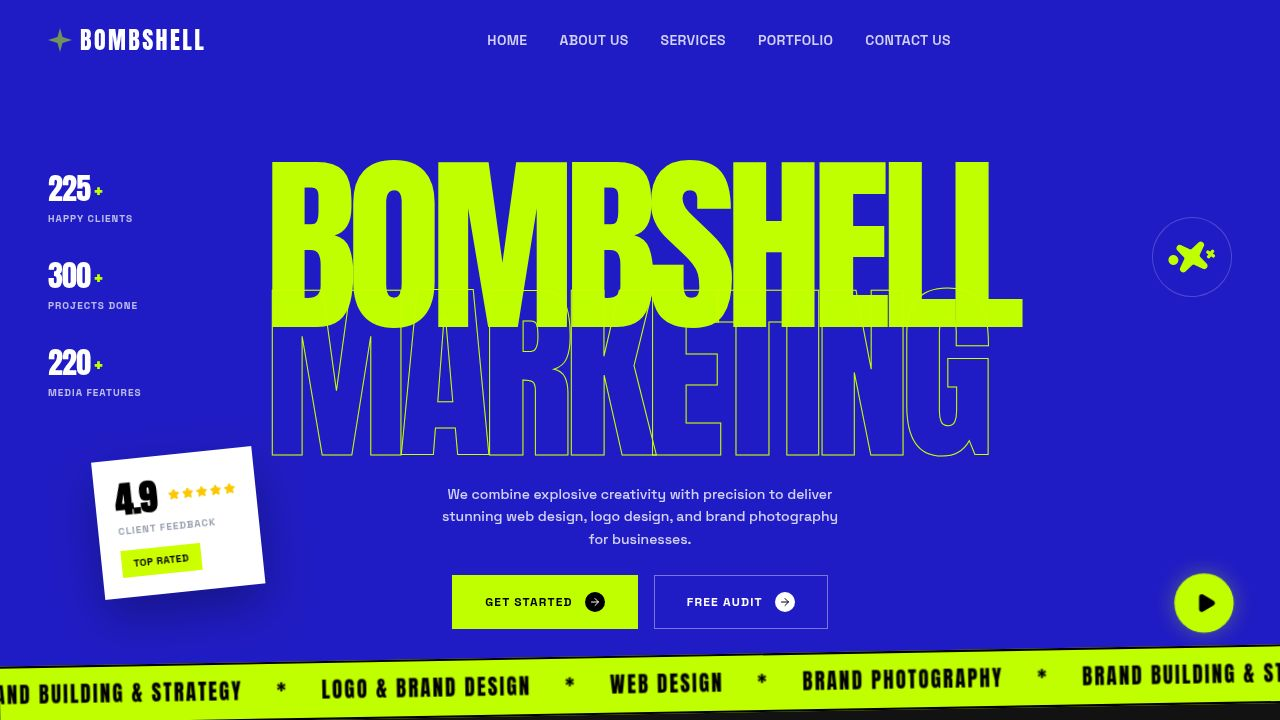
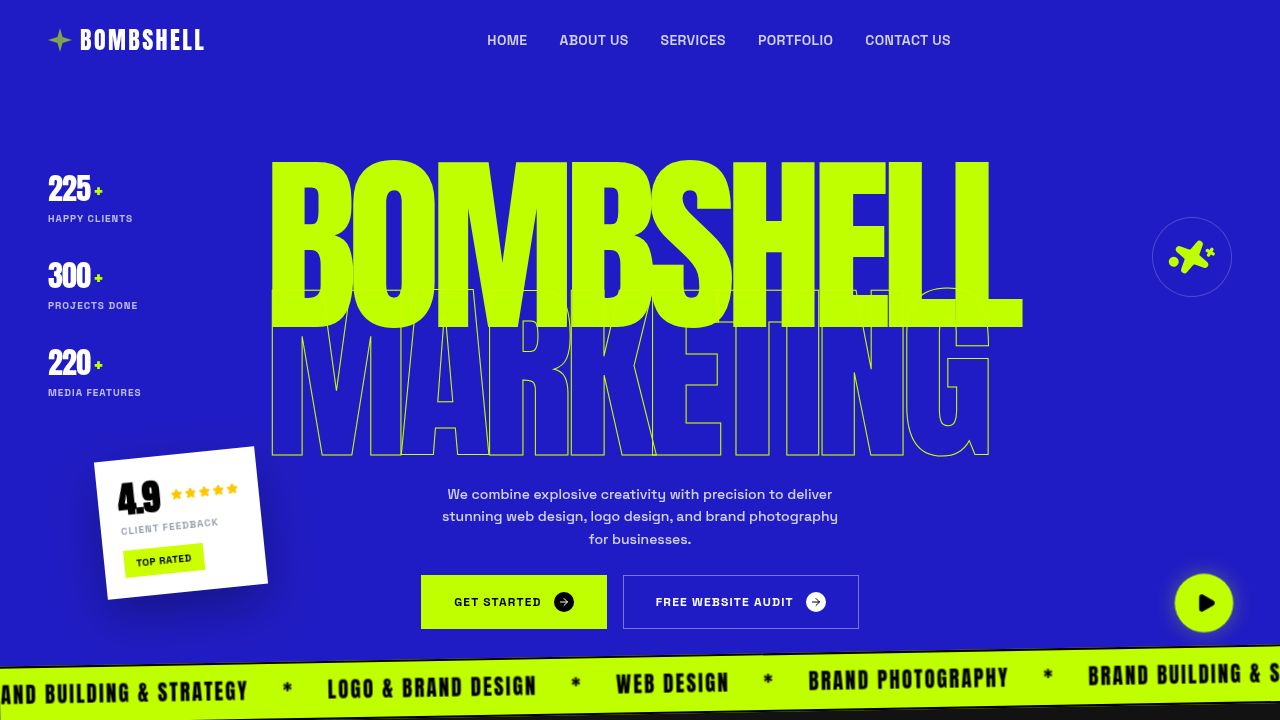
Update audit link text and destination across site
Modify multiple components and pages to change "Free Audit" to "Free Website Audit" and update href attributes to point to "https://audit.bombshellmarketingomaha.com/".

Replit-Commit-Author: Agent
Replit-Commit-Session-Id: b97b545a-2953-4744-8807-01dbd9bc97d5
Replit-Commit-Checkpoint-Type: full_checkpoint
Replit-Commit-Event-Id: aef925ae-0c94-406c-b1c6-359919545ed4
Replit-Commit-Screenshot-Url: https://storage.googleapis.com/screenshot-production-us-central1/cacd662f-1fbf-427a-8dde-dff8a0747f32/b97b545a-2953-4744-8807-01dbd9bc97d5/OgFN8ip
Replit-Helium-Checkpoint-Created: true

diff --git a/client/src/components/Hero.tsx b/client/src/components/Hero.tsx
@@ -82,8 +82,8 @@ export function Hero() {
                        <ArrowRight className="w-3 h-3" />
                     </div>
                   </a>
-                  <a href="https://style-matcher.replit.app" className="group px-8 py-4 border border-white/40 hover:bg-primary hover:text-black hover:border-primary transition-all text-white text-xs font-bold uppercase tracking-widest flex items-center gap-3">
-                    <span>Free Audit</span>
+                  <a href="https://audit.bombshellmarketingomaha.com/" className="group px-8 py-4 border border-white/40 hover:bg-primary hover:text-black hover:border-primary transition-all text-white text-xs font-bold uppercase tracking-widest flex items-center gap-3">
+                    <span>Free Website Audit</span>
                     <div className="w-5 h-5 rounded-full bg-white text-black flex items-center justify-center group-hover:bg-black group-hover:text-white transition-colors">
                        <ArrowRight className="w-3 h-3" />
                     </div>

diff --git a/client/src/components/CallToAction.tsx b/client/src/components/CallToAction.tsx
@@ -27,13 +27,13 @@ export function CallToAction() {
           </a>
           
           <a 
-            href="https://style-matcher.replit.app"
+            href="https://audit.bombshellmarketingomaha.com/"
             target="_blank"
             rel="noopener noreferrer"
             className="group px-8 py-4 bg-transparent text-white border border-white hover:bg-white hover:text-black transition-all text-xs font-bold uppercase tracking-widest flex items-center justify-center gap-2"
             data-testid="cta-audit-button"
           >
-            Free Audit
+            Free Website Audit
             <ArrowUpRight className="w-4 h-4" />
           </a>
         </div>

diff --git a/client/src/pages/Services.tsx b/client/src/pages/Services.tsx
@@ -175,10 +175,10 @@ export default function ServicesPage() {
               <ArrowUpRight className="w-4 h-4" />
             </a>
             <a 
-              href="https://style-matcher.replit.app" 
+              href="https://audit.bombshellmarketingomaha.com/" 
               className="group px-8 py-4 border border-white/40 hover:bg-primary hover:text-black hover:border-primary transition-all text-white text-xs font-bold uppercase tracking-widest flex items-center justify-center gap-3"
             >
-              <span>Free Audit</span>
+              <span>Free Website Audit</span>
               <ArrowUpRight className="w-4 h-4" />
             </a>
           </div>

diff --git a/client/src/pages/Portfolio.tsx b/client/src/pages/Portfolio.tsx
@@ -62,10 +62,10 @@ export default function PortfolioPage() {
               <ArrowUpRight className="w-4 h-4" />
             </a>
             <a 
-              href="https://style-matcher.replit.app" 
+              href="https://audit.bombshellmarketingomaha.com/" 
               className="group px-8 py-4 border border-white/40 hover:bg-primary hover:text-black hover:border-primary transition-all text-white text-xs font-bold uppercase tracking-widest flex items-center justify-center gap-3"
             >
-              <span>Free Audit</span>
+              <span>Free Website Audit</span>
               <ArrowUpRight className="w-4 h-4" />
             </a>
           </div>

diff --git a/client/src/pages/About.tsx b/client/src/pages/About.tsx
@@ -62,10 +62,10 @@ export default function AboutPage() {
               <ArrowUpRight className="w-4 h-4" />
             </a>
             <a 
-              href="https://style-matcher.replit.app" 
+              href="https://audit.bombshellmarketingomaha.com/" 
               className="group px-8 py-4 border border-white/40 hover:bg-primary hover:text-black hover:border-primary transition-all text-white text-xs font-bold uppercase tracking-widest flex items-center justify-center gap-3"
             >
-              <span>Free Audit</span>
+              <span>Free Website Audit</span>
               <ArrowUpRight className="w-4 h-4" />
             </a>
           </div>
